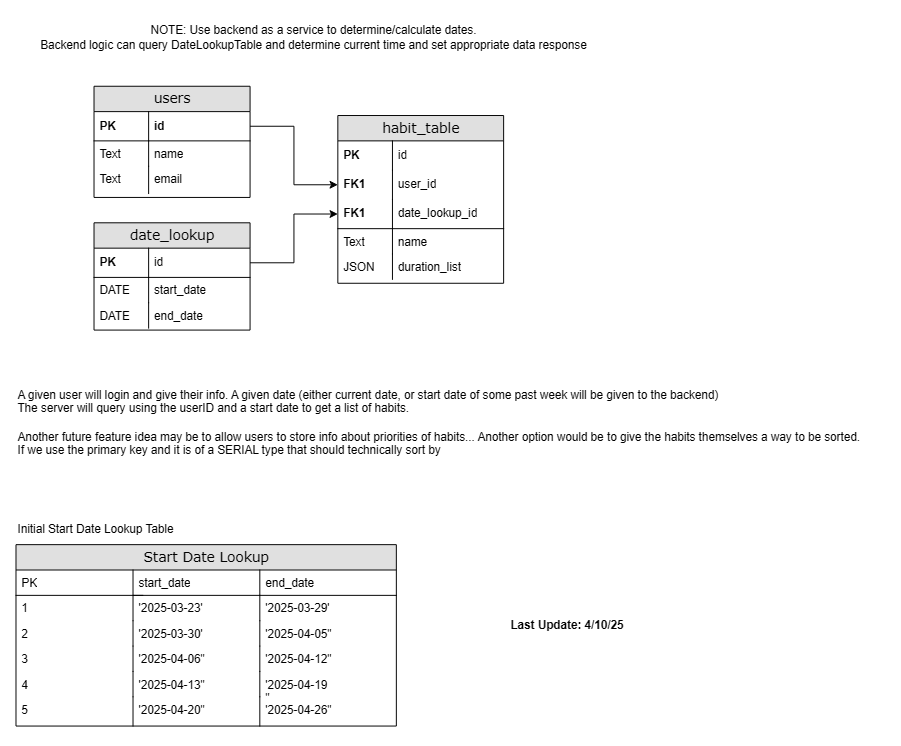
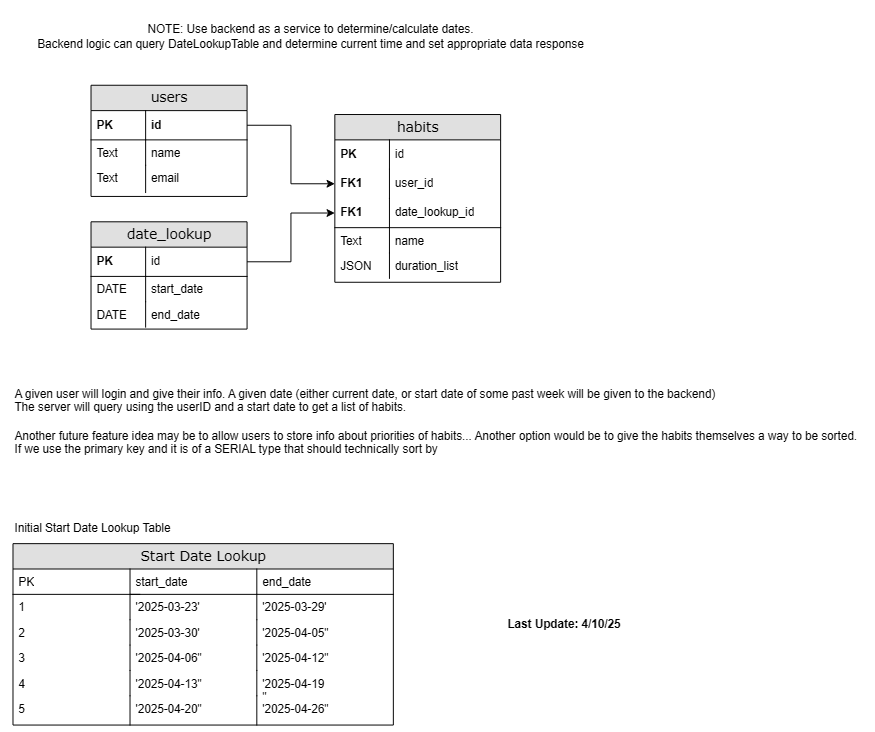
update habit_table to habits, add additional queries, add server requests.

diff --git a/habit-tracker/backend/server.js b/habit-tracker/backend/server.js
@@ -14,13 +14,12 @@ const pool = new Pool({
   host: 'db',        // service name from docker-compose
   user: 'dev',
   password: 'password',
-  database: 'devdb',
+  database: 'ht-db',
   port: 5432,
 });
 
 app.get('/y', async (req, res) => {
     try {
-        //const result = await pool.query('SELECT * FROM habit_table');
         res.json("Yup");
     } catch (error) {
         console.log(error);
@@ -31,7 +30,18 @@ app.get('/y', async (req, res) => {
 // Sample route
 app.get('/habits', async (req, res) => {
   try {
-    const result = await pool.query('SELECT * FROM habit_table');
+    const result = await pool.query('SELECT * FROM habits');
+    res.json(result.rows);
+  } catch (err) {
+    console.error(err);
+    res.status(500).send('Error querying database');
+  }
+});
+
+// Sample route
+app.get('/habitsAustin', async (req, res) => {
+  try {
+    const result = await pool.query('SELECT * FROM habits WHERE user_id = 1 AND date_lookup_id = 1');
     res.json(result.rows);
   } catch (err) {
     console.error(err);
@@ -41,12 +51,21 @@ app.get('/habits', async (req, res) => {
 
 app.get('/test', async (req, res) => {
     try {
-        //const result = await pool.query('SELECT * FROM habit_table');
         res.json("TESTISGOOD");
     } catch (error) {
         console.log(error);
         res.status(500).send('Error adding user');
     }
+});
+
+app.get('/test', async (req, res) => {
+  try {
+      //const result = await pool.query('SELECT * FROM habit_table');
+      res.json("TESTISGOOD");
+  } catch (error) {
+      console.log(error);
+      res.status(500).send('Error adding user');
+  }
 });
 
 app.listen(3000, () => {
